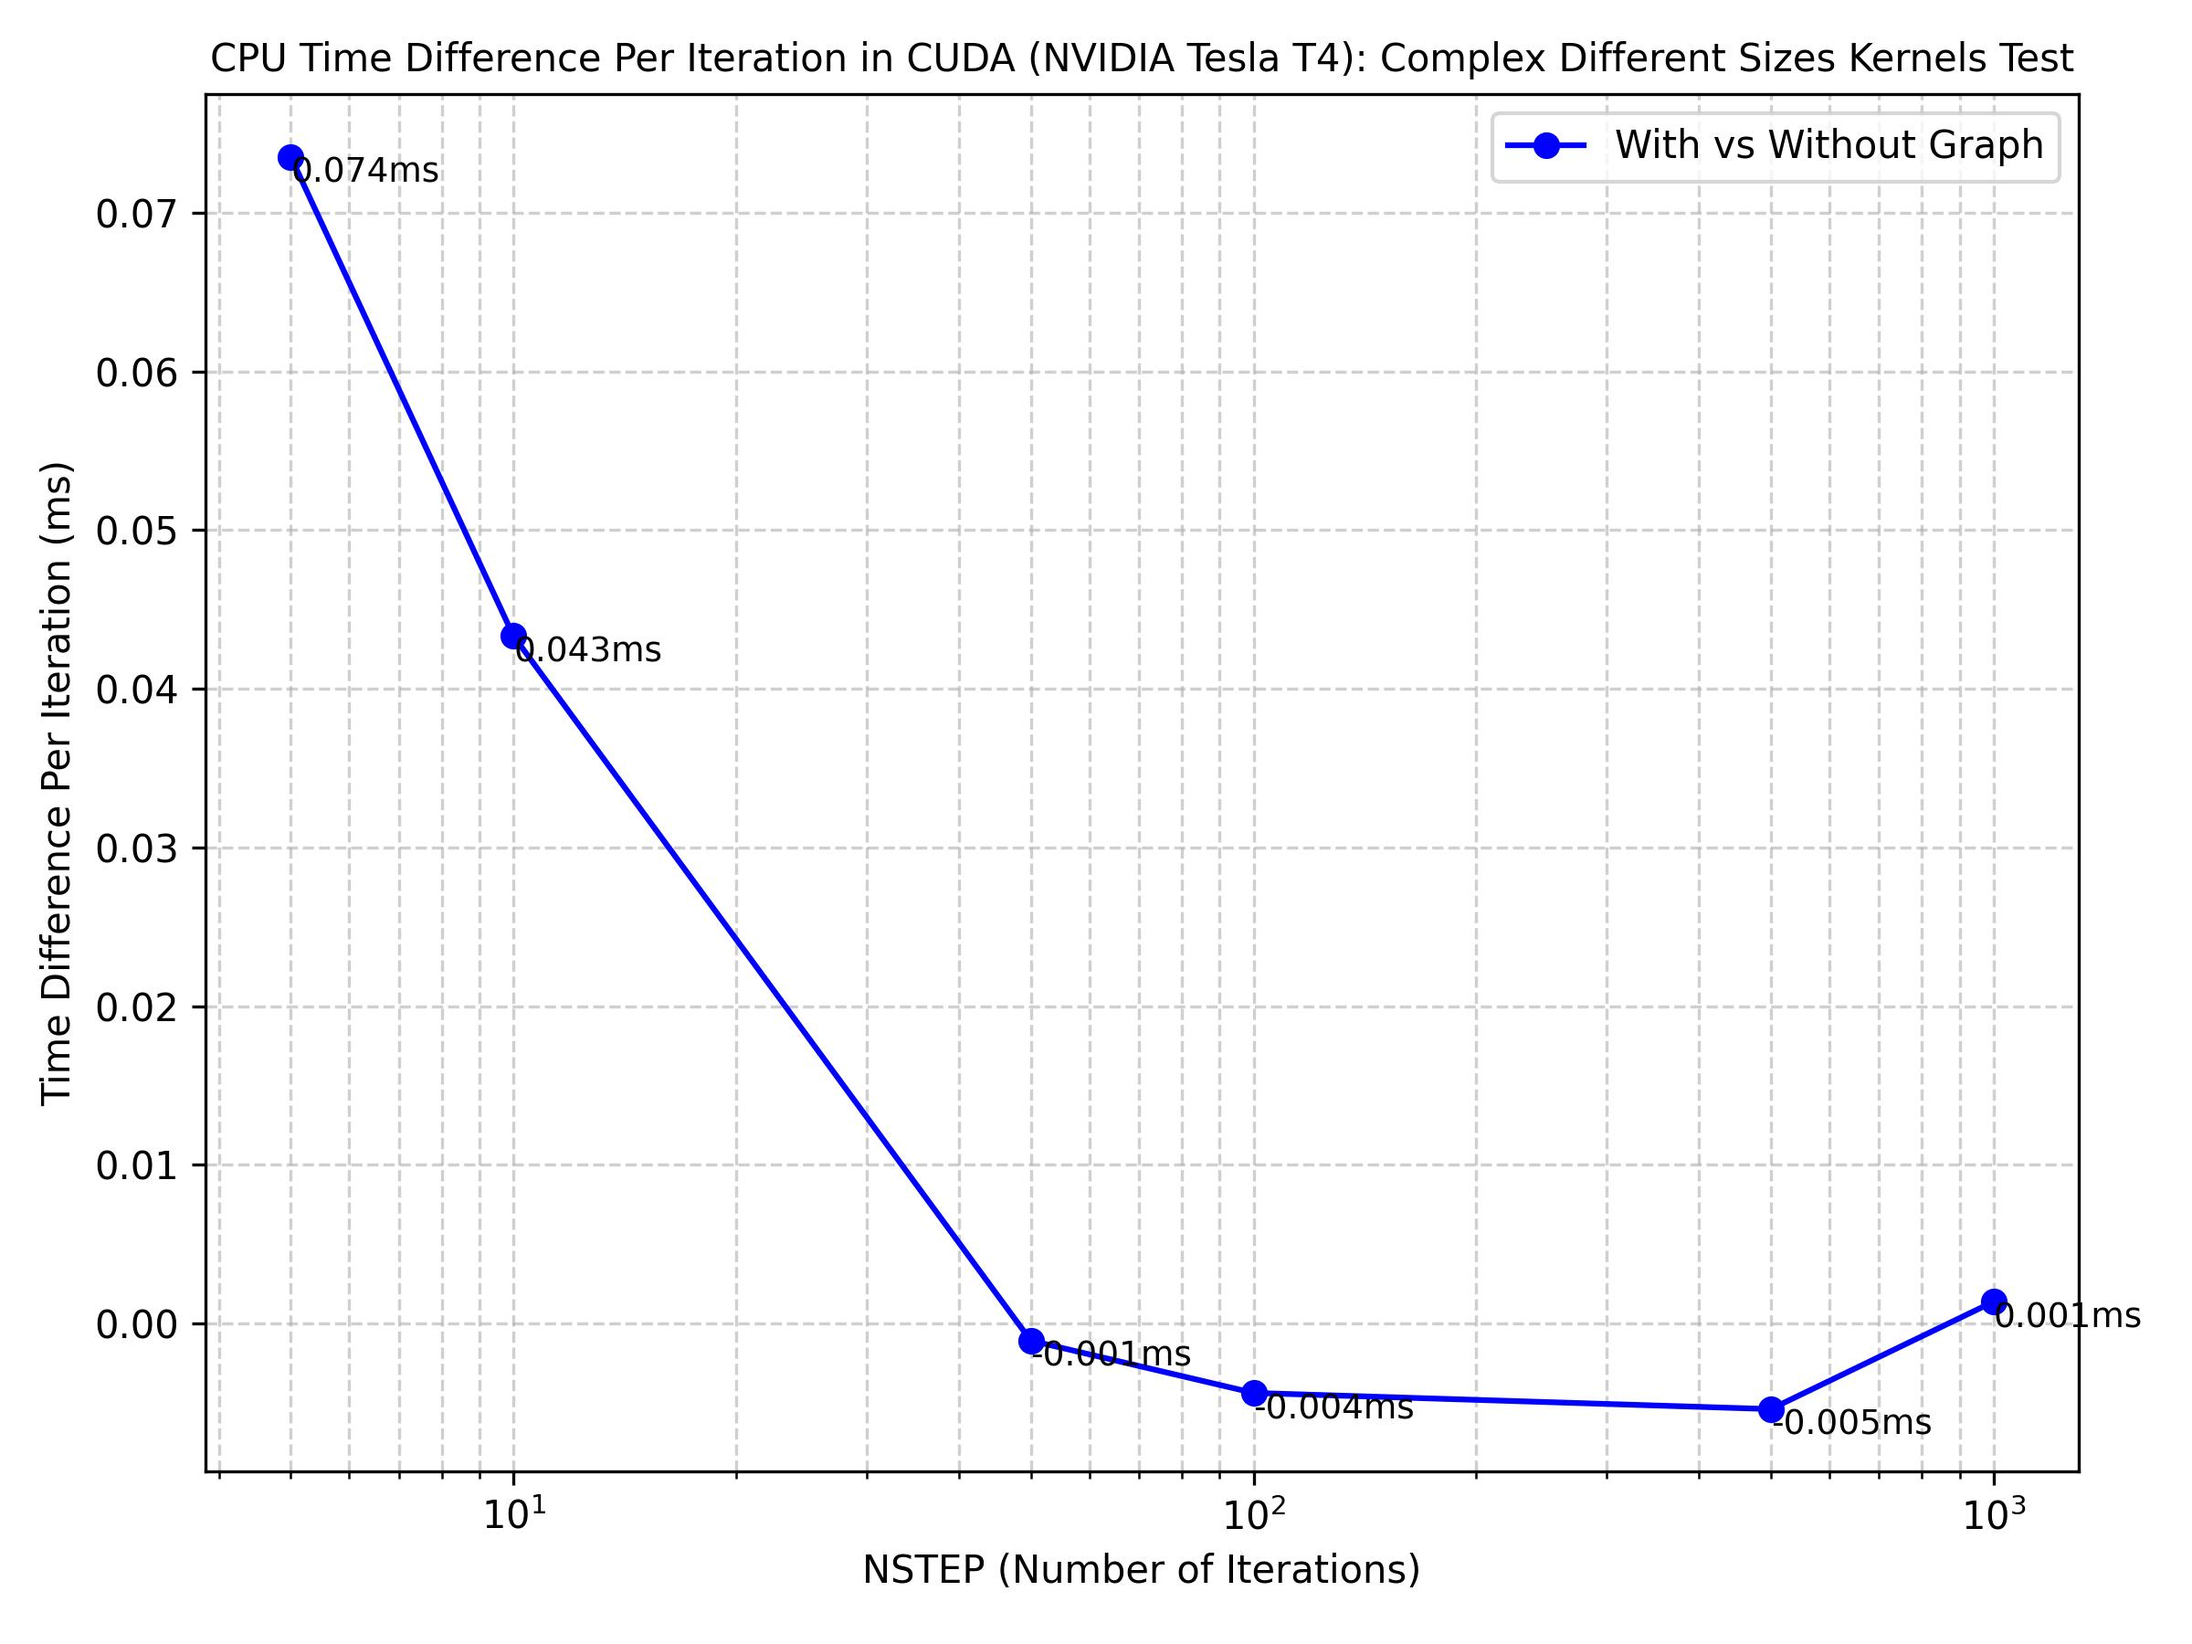
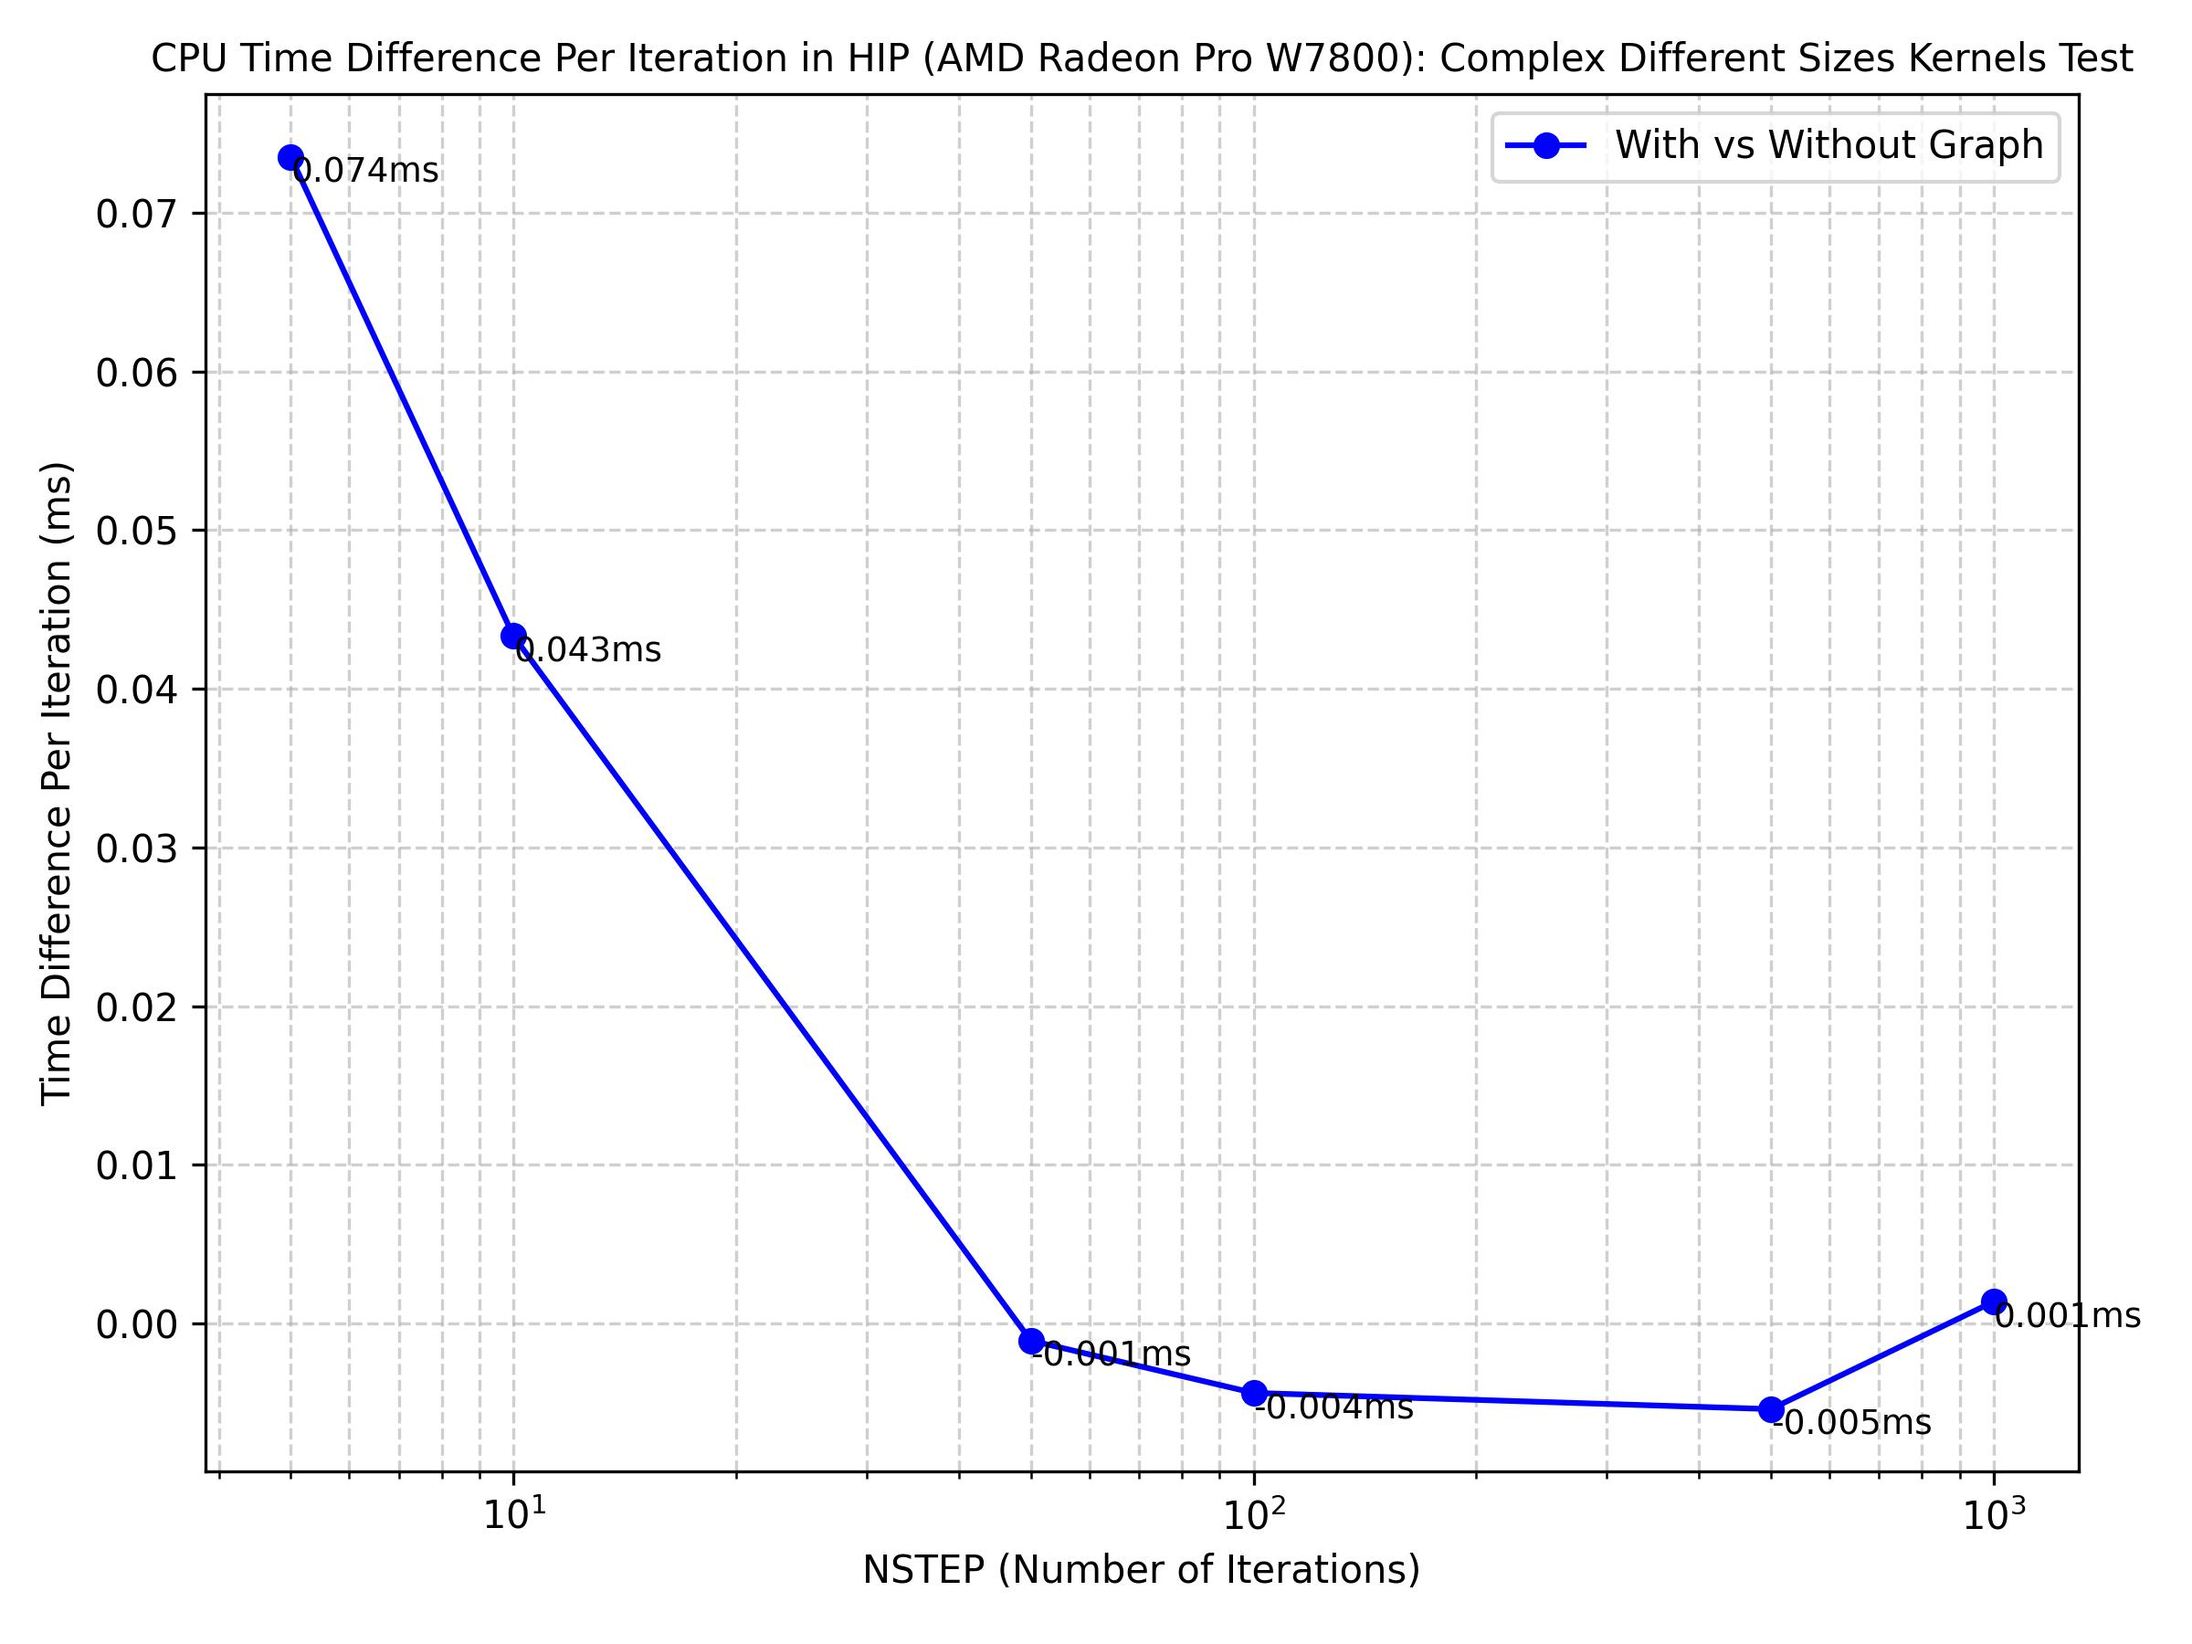
fix: change title to hip

Changed region(s): [[0.0938, 0.0311, 0.9688, 0.0622]]

diff --git a/plot_generator.py b/plot_generator.py
@@ -83,7 +83,7 @@ def generate_cputotaltime_plot(csv_path, output_dir):
         title_test = transform_string(os.path.splitext(os.path.basename(csv_path))[0],"_"," ")
 
         # plt.title(f'Total Time Difference Percentage in CUDA (NVIDIA Tesla T4): {title_test} Test', fontsize=font_size)
-        plt.title(f'Total Time in CUDA (NVIDIA Tesla T4): {title_test} Test', fontsize=font_size)
+        plt.title(f'Total Time in HIP (AMD Radeon Pro W7800): {title_test} Test', fontsize=font_size)
         plt.xlabel('NSTEP (Number of Iterations)')
         plt.ylabel('Total Time (ms)')
         plt.xscale('log')  # Use log scale for NSTEP
@@ -171,7 +171,7 @@ def generate_launchtotaltime_plot(csv_path, output_dir):
         title_test = transform_string(os.path.splitext(os.path.basename(csv_path))[0],"_"," ")
 
         # plt.title(f'Time Difference Per Iteration in CUDA (NVIDIA Tesla T4): {title_test} Test', fontsize=font_size)
-        plt.title(f'Total Launch Time in CUDA (NVIDIA Tesla T4): {title_test} Test', fontsize=font_size)
+        plt.title(f'Total Launch Time in HIP (AMD Radeon Pro W7800): {title_test} Test', fontsize=font_size)
         plt.xlabel('NSTEP (Number of Iterations)')
         plt.ylabel('Total Launch Time (ms)')
         plt.xscale('log')  # Use log scale for NSTEP
@@ -258,7 +258,7 @@ def generate_launchdifftotal_plot(csv_path, output_dir):
             
         title_test = transform_string(os.path.splitext(os.path.basename(csv_path))[0],"_"," ")
 
-        plt.title(f'CPU Total Launch Time Difference in CUDA (NVIDIA Tesla T4): {title_test} Test', fontsize=font_size)
+        plt.title(f'CPU Total Launch Time Difference in HIP (AMD Radeon Pro W7800): {title_test} Test', fontsize=font_size)
         plt.xlabel('NSTEP (Number of Iterations)')
         plt.ylabel('CPU Total Launch Time Difference (ms)')
         plt.xscale('log')  # Use log scale for NSTEP
@@ -353,7 +353,7 @@ def generate_gputimeperstep_plot(csv_path, output_dir):
             
         title_test = transform_string(os.path.splitext(os.path.basename(csv_path))[0],"_"," ")
 
-        plt.title(f'GPU Time Per Iteration in CUDA (NVIDIA Tesla T4): {title_test} Test', fontsize=font_size)
+        plt.title(f'GPU Time Per Iteration in HIP (AMD Radeon Pro W7800): {title_test} Test', fontsize=font_size)
         plt.xlabel('NSTEP (Number of Iterations)')
         plt.ylabel('Time Per Iteration (ms)')
         plt.xscale('log')  # Use log scale for NSTEP
@@ -440,7 +440,7 @@ def generate_gpudiffperstep_plot(csv_path, output_dir):
             
         title_test = transform_string(os.path.splitext(os.path.basename(csv_path))[0],"_"," ")
 
-        plt.title(f'GPU Time Difference Per Iteration in CUDA (NVIDIA Tesla T4): {title_test} Test', fontsize=font_size)
+        plt.title(f'GPU Time Difference Per Iteration in HIP (AMD Radeon Pro W7800): {title_test} Test', fontsize=font_size)
         plt.xlabel('NSTEP (Number of Iterations)')
         plt.ylabel('Time Difference Per Iteration (ms)')
         plt.xscale('log')  # Use log scale for NSTEP
@@ -527,7 +527,7 @@ def generate_gpudiffpercent_plot(csv_path, output_dir):
             
         title_test = transform_string(os.path.splitext(os.path.basename(csv_path))[0],"_"," ")
 
-        plt.title(f'GPU Total Time Difference Percentage in CUDA (NVIDIA Tesla T4): {title_test} Test', fontsize=font_size)
+        plt.title(f'GPU Total Time Difference Percentage in HIP (AMD Radeon Pro W7800): {title_test} Test', fontsize=font_size)
         plt.xlabel('NSTEP (Number of Iterations)')
         plt.ylabel('Total Time Difference Percentage (%)')
         plt.xscale('log')  # Use log scale for NSTEP
@@ -619,7 +619,7 @@ def generate_cputimeperstep_plot(csv_path, output_dir):
             
         title_test = transform_string(os.path.splitext(os.path.basename(csv_path))[0],"_"," ")
 
-        plt.title(f'CPU Time Per Iteration in CUDA (NVIDIA Tesla T4): {title_test} Test', fontsize=font_size)
+        plt.title(f'CPU Time Per Iteration in HIP (AMD Radeon Pro W7800): {title_test} Test', fontsize=font_size)
         plt.xlabel('NSTEP (Number of Iterations)')
         plt.ylabel('Time Per Iteration (ms)')
         plt.xscale('log')  # Use log scale for NSTEP
@@ -706,7 +706,7 @@ def generate_cpudiffperstep_plot(csv_path, output_dir):
             
         title_test = transform_string(os.path.splitext(os.path.basename(csv_path))[0],"_"," ")
 
-        plt.title(f'CPU Time Difference Per Iteration in CUDA (NVIDIA Tesla T4): {title_test} Test', fontsize=font_size)
+        plt.title(f'CPU Time Difference Per Iteration in HIP (AMD Radeon Pro W7800): {title_test} Test', fontsize=font_size)
         plt.xlabel('NSTEP (Number of Iterations)')
         plt.ylabel('Time Difference Per Iteration (ms)')
         plt.xscale('log')  # Use log scale for NSTEP
@@ -792,7 +792,7 @@ def generate_cpudiffpercent_plot(csv_path, output_dir):
             
         title_test = transform_string(os.path.splitext(os.path.basename(csv_path))[0],"_"," ")
 
-        plt.title(f'CPU Total Time Difference Percentage in CUDA (NVIDIA Tesla T4): {title_test} Test', fontsize=font_size)
+        plt.title(f'CPU Total Time Difference Percentage in HIP (AMD Radeon Pro W7800): {title_test} Test', fontsize=font_size)
         plt.xlabel('NSTEP (Number of Iterations)')
         plt.ylabel('Total Time Difference Percentage (%)')
         plt.xscale('log')  # Use log scale for NSTEP
@@ -885,7 +885,7 @@ def generate_launchtimeperstep_plot(csv_path, output_dir):
             
         title_test = transform_string(os.path.splitext(os.path.basename(csv_path))[0],"_"," ")
 
-        plt.title(f'Launch Time Per Iteration in CUDA (NVIDIA Tesla T4): {title_test} Test', fontsize=font_size)
+        plt.title(f'Launch Time Per Iteration in HIP (AMD Radeon Pro W7800): {title_test} Test', fontsize=font_size)
         plt.xlabel('NSTEP (Number of Iterations)')
         plt.ylabel('Time Per Iteration (ms)')
         plt.xscale('log')  # Use log scale for NSTEP
@@ -974,7 +974,7 @@ def generate_launchdiffperstep_plot(csv_path, output_dir):
             
         title_test = transform_string(os.path.splitext(os.path.basename(csv_path))[0],"_"," ")
 
-        plt.title(f'Launch Total Time Difference in CUDA (NVIDIA Tesla T4): {title_test} Test', fontsize=font_size)
+        plt.title(f'Launch Total Time Difference in HIP (AMD Radeon Pro W7800): {title_test} Test', fontsize=font_size)
         plt.xlabel('NSTEP (Number of Iterations)')
         plt.ylabel('Total Time Difference (ms)')
         plt.xscale('log')  # Use log scale for NSTEP
@@ -1061,7 +1061,7 @@ def generate_launchdiffpercent_plot(csv_path, output_dir):
             
         title_test = transform_string(os.path.splitext(os.path.basename(csv_path))[0],"_"," ")
 
-        plt.title(f'Launch Total Time Difference Percentage in CUDA (NVIDIA Tesla T4): {title_test} Test', fontsize=font_size)
+        plt.title(f'Launch Total Time Difference Percentage in HIP (AMD Radeon Pro W7800): {title_test} Test', fontsize=font_size)
         plt.xlabel('NSTEP (Number of Iterations)')
         plt.ylabel('Total Time Difference Percentage (%)')
         plt.xscale('log')  # Use log scale for NSTEP
